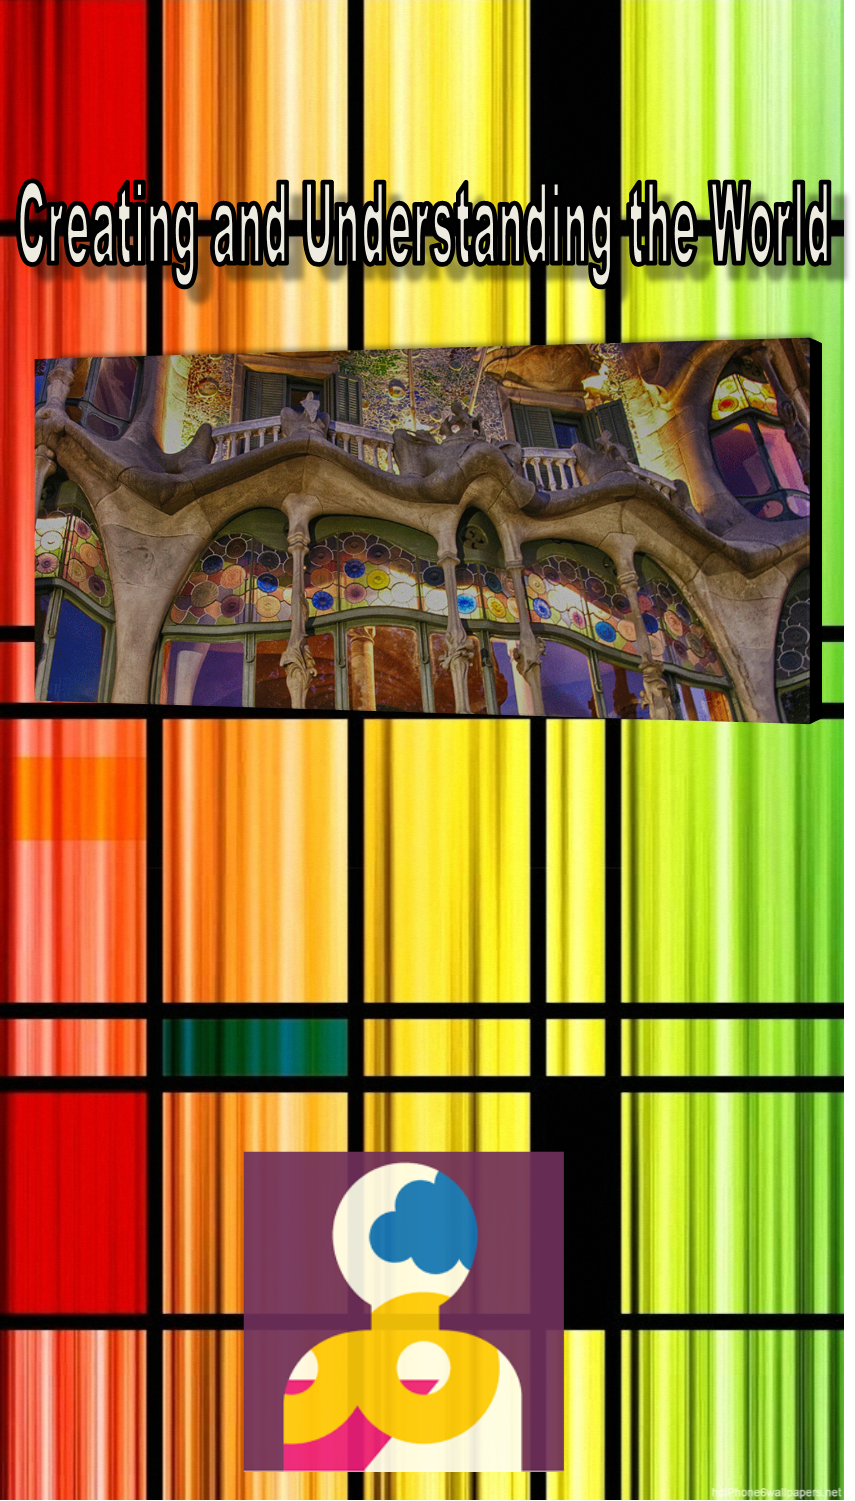
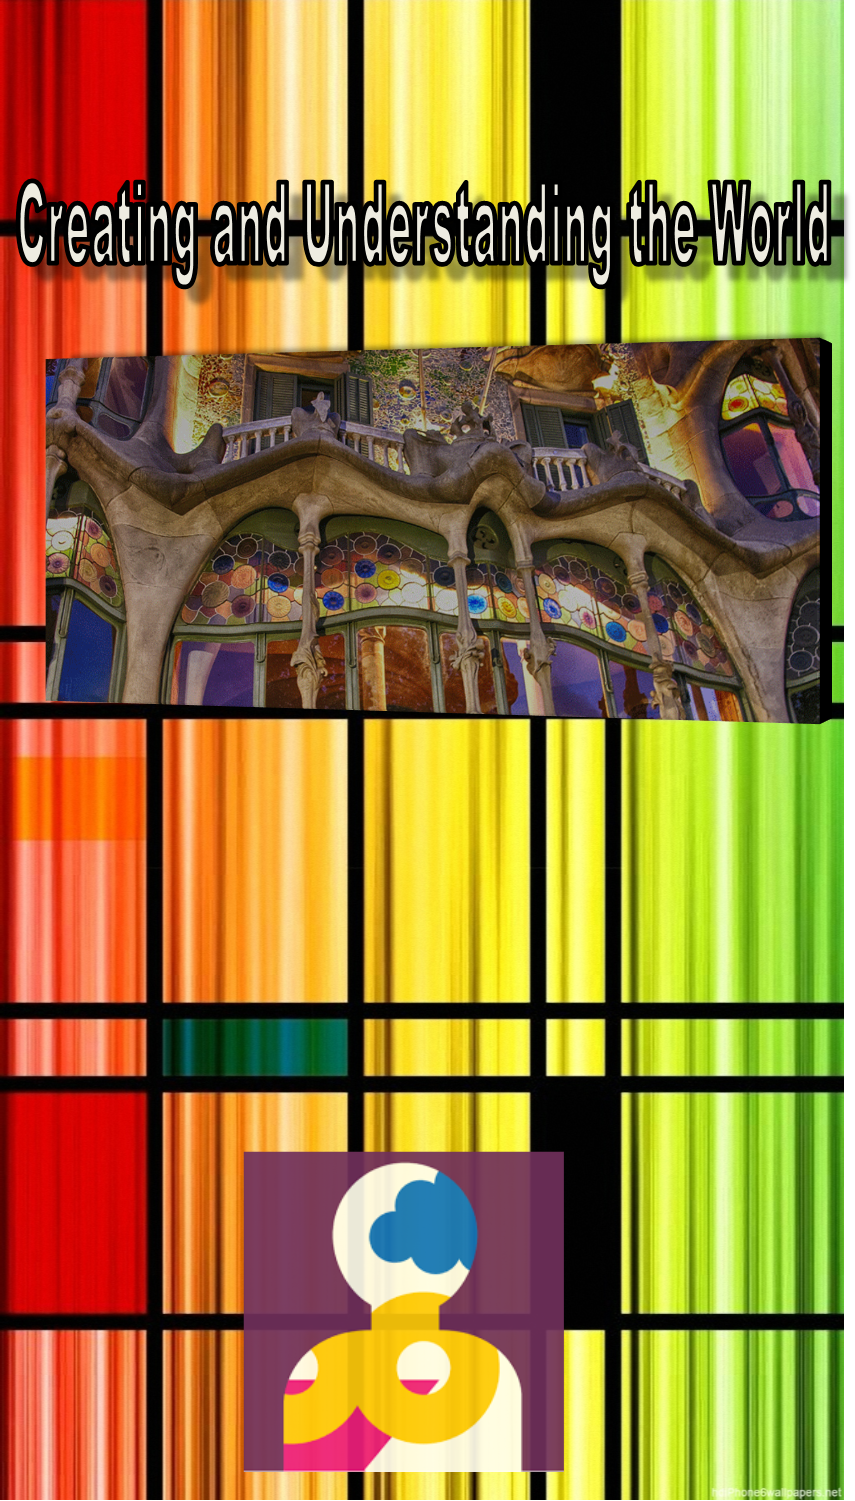
layout nearly done

Changed region(s): [[0.0304, 0.2145, 0.9731, 0.4903]]

diff --git a/assets/javascript/app.js b/assets/javascript/app.js
@@ -1,32 +1,94 @@
-$(".style").hide();
+$(".style").css({"position":"relative", "left":"-450px"});
 $(".h2style").hide();
 $(".information").hide();
+$(".job").hide();
+$(".college").hide();
+startClock();
 
 function myMove() {
   var elem = document.getElementById("animate");   
   var pos = 0;
+  var posl = -100;
   var id = setInterval(frame, 5);
   function frame() {
-    if (pos == 450) {
+    if (pos == 300) {
       clearInterval(id);
     } else {
       pos++; 
+      posl++;
       elem.style.top = pos + 'px'; 
+      elem.style.left = posl + 'px'; 
+    }
+  }
+}
+
+function slide() {
+  var elem = document.getElementById("style");   
+  var pos = -450;
+  var id = setInterval(frame, 5);
+  function frame() {
+    if (pos == 0) {
+      clearInterval(id);
+    } else {
+      pos++; 
+      //elem.style.top = 0; 
       elem.style.left = pos + 'px'; 
     }
   }
 }
 
-$(window).on("click", function(){
-  $(".style").show();
-$(".h2style").show();
+function slide2() {
+  var elem = document.getElementById("but");   
+  var pos = 0;
+  var id = setInterval(frame, 3);
+  function frame() {
+    if (pos == 750) {
+      clearInterval(id);
+    } else {
+      pos++; 
+      //elem.style.top = 0; 
+      elem.style.left = pos + 'px'; 
+    }
+  }
+}
 
+function startClock(){
+    var clock=2;
+    
+    timeval = setInterval(downSouth, 1000);
+
+    function downSouth(){
+      clock--;
+      
+      if(clock===0){
+        
+        $(".h2style").show();
+  slide();
   myMove();
-  $(".welcome").hide();
+  slide2();
+  
+  
   countDown();
+             
+    }
+
+  }
+
+}
 
 
-});
+// $(window).on("click", function(){
+//   //$(".style").show();
+//   $(".h2style").show();
+//   slide();
+//   myMove();
+//   slide2();
+  
+  
+//   countDown();
+
+
+// });
 
 function countDown(){
     var clock=3;
@@ -38,18 +100,48 @@ function countDown(){
       
       if(clock===0){
         
-      $(".entry").hide();
-      $(".information").show(); 
-      $(".style h1").lettering("words");   
-      
-   
-    stop();
+      $(".banner").css({"height":"225px", "width":"138px"});
+      $(".banner2").css({"height":"225px", "width":"138px"});
+      $(".information").show();
+      $(".welcome").hide(); 
+      //$(".style").lettering();    
+ 
         
     }
 
   }
 
 }
+
+$("#submit").on("click", function(event){
+  event.preventDefault();
+  $(".entry").hide();
+  $(".information").hide();
+  $(".job").show();
+  $(".college").show();
+  var label = $("<labl>")
+  label.append(".luniversity");
+  var label2 = $(".lmajor");
+  var label3 = $(".lstate");
+  var search1 = $(".university");
+  var search2 = $(".major");
+  var search3 = $(".state");
+  $(".search").append(label + search1 +" "+label2 + search2 +" "+label3 + search3);
+
+
+});
+
+
+
+$.fn.extend({
+    animateCss: function (animationName) {
+        var animationEnd = 'webkitAnimationEnd mozAnimationEnd MSAnimationEnd oanimationend animationend';
+        this.addClass('animated ' + animationName).one(animationEnd, function() {
+            $(this).removeClass('animated ' + animationName);
+        });
+    }
+});
+ 
 
 
 

diff --git a/assets/css/style.css b/assets/css/style.css
@@ -1,5 +1,11 @@
+.intro{
+	height: 50px;
+	width: 900px;
+	position: relative;
+	left: 150px;
+}
 .entry{
-	border:2 px solid red;
+	
 	position: relative;
 	top:10px;
 	left:40px;
@@ -18,11 +24,14 @@
 	text-align: center;
 	padding: 10px;
 	margin: 10px;
+	width:100%;
+	text-shadow: rgba(17, 130, 97, 0.34) 2px 2px;
 }
 .h2style{
 	font-size: 26px;
 	color: white;
 	text-align: center;
+	text-shadow: rgba(17, 130, 97, 0.34) 2px 2px;
 }
 
 .welcome{
@@ -31,9 +40,11 @@
 	font-weight: bold ;
 	text-align: center ;
 	background-color: white ;
-	position: relative;
-	top:700px;
-	left:500px;
+	position: relative;	
+	left:20px;
+	margin-bottom: 40px;
+	z-index: 1;
+	float: left;
 
 }
 
@@ -41,10 +52,10 @@
 
 	background-image: url("../images/01.jpg");
 	position:relative;
-	top: 20px;
-	left:50px;
-	height: 500px;
-	width: 1900px;
+	top: 0px;
+	left:150px;
+	height: 300px;
+	width: 900px;
 	
 }
 
@@ -68,42 +79,43 @@ input{
 
 }
 #university{
-	position: fixed;
-	right:500px;
-	top:170px;
+	position: relative;
+	left:150px;
+	top:-220px;
+	
 }
 #luniversity{
-	position: fixed;
-	right:1100px;
-	top:170px;
+	position: relative;
+	left:-750px;
+	
 }
 #major{
-	position: fixed;
-	right:500px;
-	top:217px;
+	position: relative;
+	left:70px;
+	top:-220px;
 
 }
 #lmajor{
-	position: fixed;
-	right:1100px;
-	top:217px;
+	position: relative;
+	
+	top:-220px;
 
 }
 #state{
-	position: fixed;
-	right:500px;
-	top:264px;
+	position: relative;
+	left:85px;
+	top:-220px;
 }
 #lstate{
-	position: fixed;
-	right:1100px;
-	top:264px;
+	position: relative;
+	
+	top:-220px;
 }
 
 #submit{
-	position: fixed;
-	right:500px;
-	top:370px;
+	position: relative;
+	left:350px;
+	top:-240px;
 	color:black;
 	text-shadow: 2px 2px red;
 	font-size: 30px;
@@ -115,20 +127,54 @@ input{
 	height:40px;
 	position: fixed;
 	bottom: 0px;
-	font-size: 30px;
-	color: white;
-	text-shadow: red 2px 2px;
+	font-size: 20px;
+	color: #111a94;
+	text-shadow: rgba(17, 130, 97, 0.34) 2px 2px;
 	background-color: white;
 	padding: 5px;
 	margin-top:20px;
 	width: 100%;
+	text-align: center;
 }
 
 .banner{
 	float:left;
 	width:275px;
 	height:550px;
-	margin:0 40px 0 40px;
+	margin:0 40px 0 140px;
+	border: 1px solid white;
 	
 }
+
+.banner2{
+	float:left;
+	width:275px;
+	height:550px;
+	margin:0 40px 0 40px;
+	border: 1px solid white;
+	
+}
+
+.job{
+	background-image: url("../images/med.jpg");
+	height:600px;
+	width: 350px;
+	float:left;
+	position: relative;
+	left:20px;
+	border: 1px solid white;
+	margin-top:10px;
+}
+
+.college{
+	background-image: url("../images/14.png");
+	height:600px;
+	width: 900px;
+	position: relative;
+	left:400px;
+	border: 1px solid white;
+	margin-top:10px;
+
+}
+
 

diff --git a/index.html b/index.html
@@ -7,28 +7,33 @@
 	 <script src="https://www.gstatic.com/firebasejs/3.7.3/firebase.js"></script>
 	 <link rel="stylesheet" type="text/css" href="assets/css/style.css">
 	<link rel="stylesheet" type="text/css" href="assets/css/reset.css">
-	<link rel="stylesheet" type="text/css" href="assets/css/animate.css">
+	<!--<link rel="stylesheet" type="text/css" href="assets/css/animate.css">-->
 	<script src="https://code.jquery.com/jquery.js"></script>
+
 	<script src="https://cdn.jsdelivr.net/momentjs/2.12.0/moment.min.js"></script>
 	<script type="text/javascript" src="assets/javascript/bootstrap.js"></script>
+	<link rel="stylesheet" href="https://cdnjs.cloudflare.com/ajax/libs/animate.css/3.5.2/animate.min.css">
 </head>
 
 
 <body class="back">
 
-<button class="welcome"> Welcome</button>
+<button class="welcome" id="but"> W<br>e<br>l<br>c<br>o<br>m<br>e</button>
 <div>
+<h1 class="style" id="style"> Welcome to JOB U </h1>
+<div class="intro">
+<h2 class="h2style"> The site where you can find all the information about the University that you would like to attend and the career path that you are considering</h2>
 
+</div>
+<div class="search"></div>
 <div class="entry" id="animate">
 	<img class="banner" src="assets/images/picture1.png">
-	<img class="banner" src="assets/images/picture3.png">
-	<img class="banner" src="assets/images/picture4.png">
+	<img class="banner2" src="assets/images/picture3.png">
+	<img class="banner2" src="assets/images/picture4.png">
 	<!--<img src="assets/images/giphy2.gif"> -->
 </div>
-<div class="intro">
-<h1 class="style"> Welcome to JOB U </h1>
-<h2 class="h2style"> The site where you can find all the information about the University that you would like to attend and the career path that you are considering</h2>
-</div>
+
+
 <div class="information">
 <form class="input">
 	<label for="university" id="luniversity"> University</label>
@@ -44,6 +49,8 @@
 </div>
 
 </div>
+<div class="job"></div>
+<div class="college"></div>
 
  <div>
   <footer class="footer"> Copyright  © Team Schools and Jobs 2017</footer>
